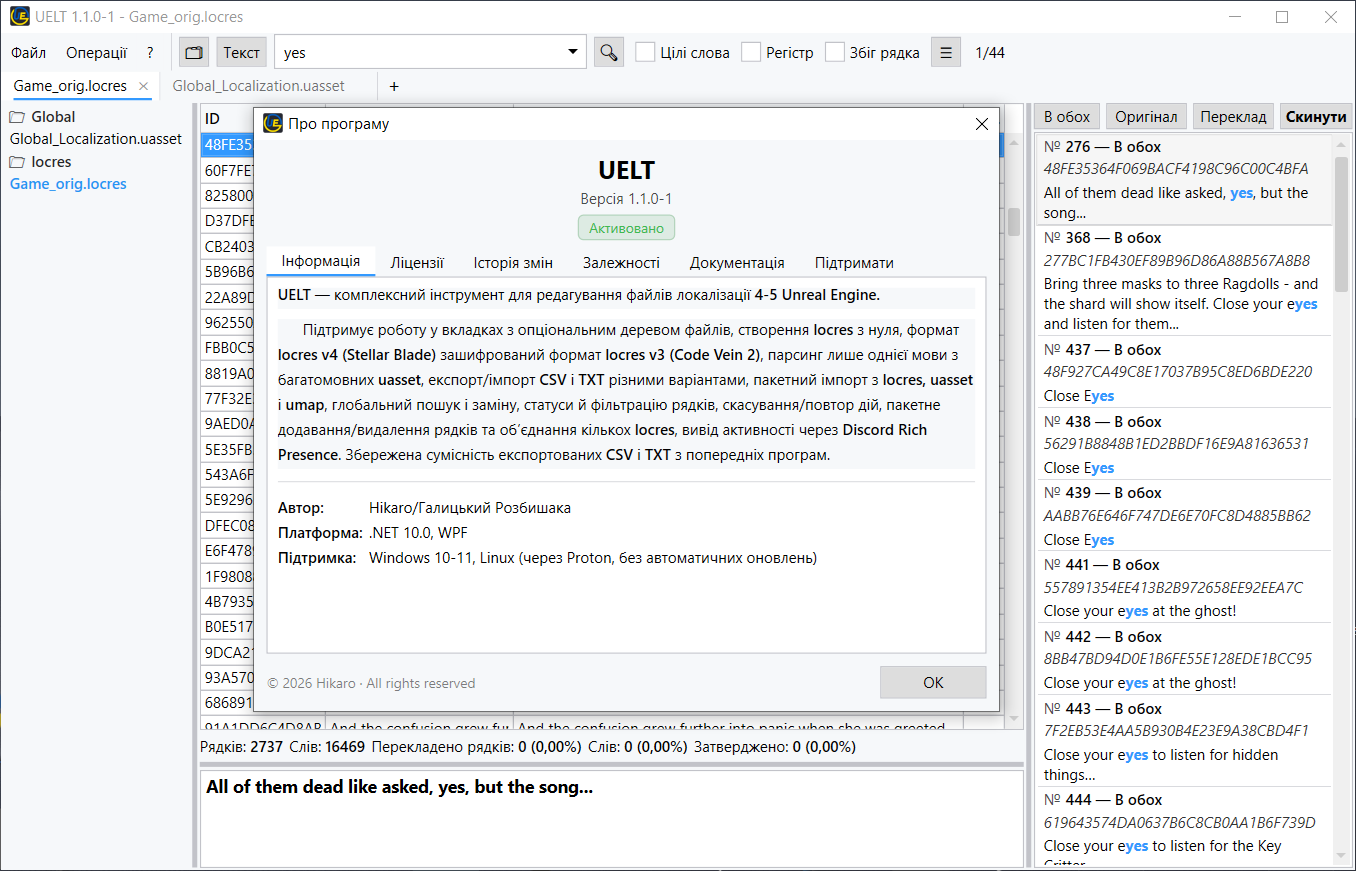
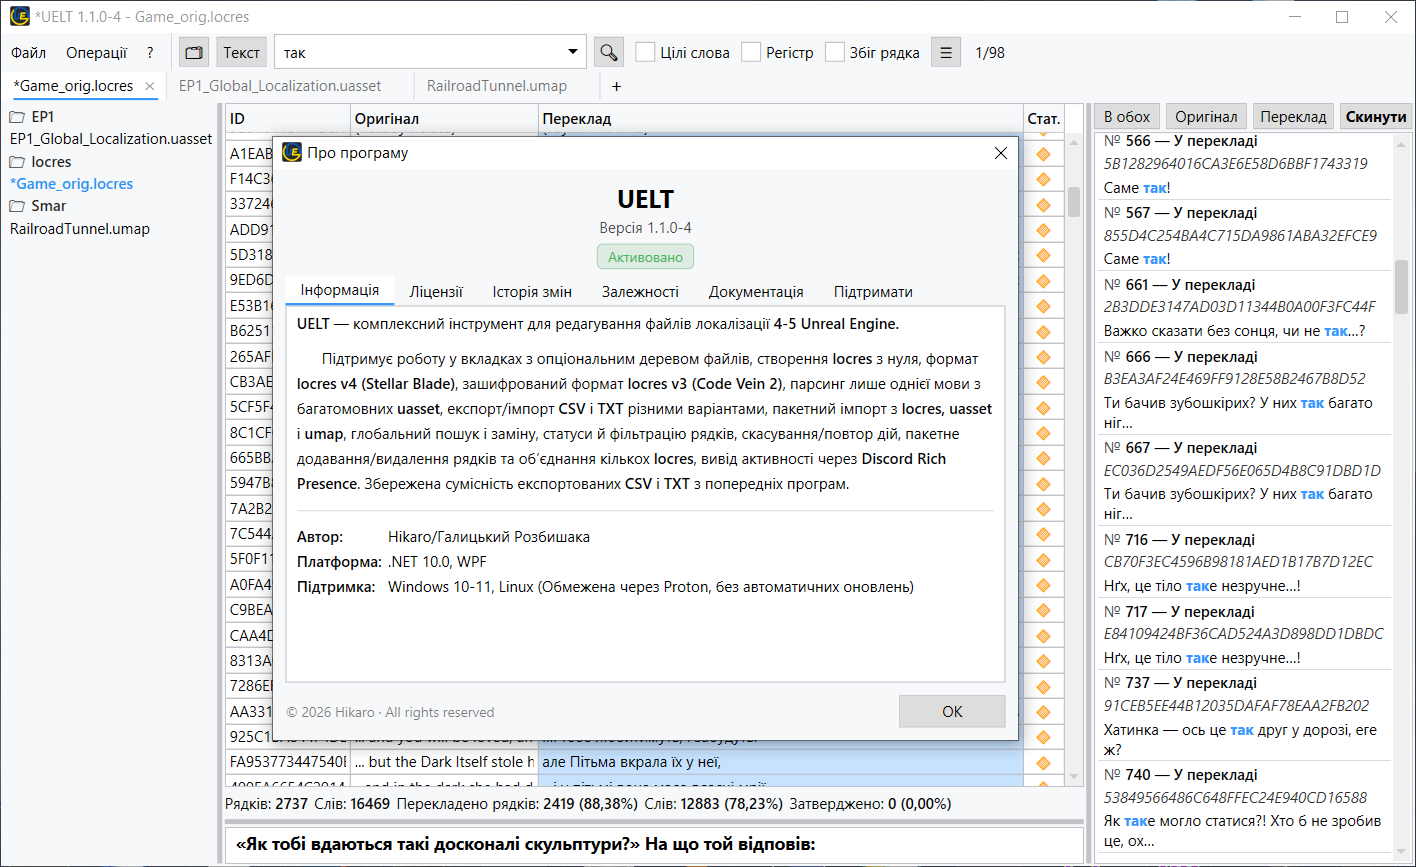
update

Changed region(s): [[0.0, 0.0, 1.0, 1.0], [0.0619, 0.9965, 0.1239, 1.0]]

diff --git a/guide/index.html b/guide/index.html
@@ -1116,7 +1116,7 @@ details > *:not(summary) {
 					<p>❗️ <b>Не забудьте додати .dll, .asi файли та файл із ліцензією (❗️ ОБОВ’ЯЗКОВО ❗️) у архів разом із перекладом для решти гравців, або ж додайте посилання на Unreal Engine Signature Check Bypasser для окремого завантаження.</b> ❗️</p>
 				<h3 id="ue-text">Текст</h3>
 					<p style="text-indent: 1em;">Для перекладу та роботи з <b>locres, uasset</b> і <b>umap</b> файлами використовуйте авторський інструмент <b><a href="#tools">UELT</a></b>.</p>
-					<img src="ue/uelt.png" width="1000" alt="">
+					<img src="ue/uelt.png" width="1050" alt="">
 					
 				<h3>Як дізнатись, чи для uasset/umap необхідний usmap файл:</h3>
  					<p style="text-indent: 1em;">Спробуйте відкрити <b>uasset/umap</b> у <b><a target="_blank" href="https://github.com/4sval/FModel">FModel</a></b> для попереднього перегляду. Якщо з’явиться повідомлення <b>...mapping file is missing</b>, вітаю, вам потрібен <b>usmap</b>.</p>